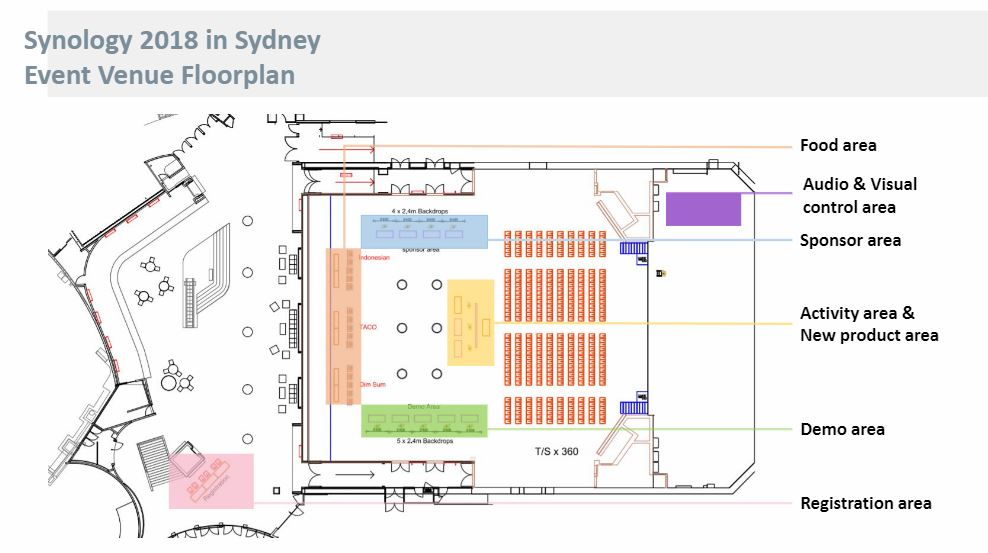
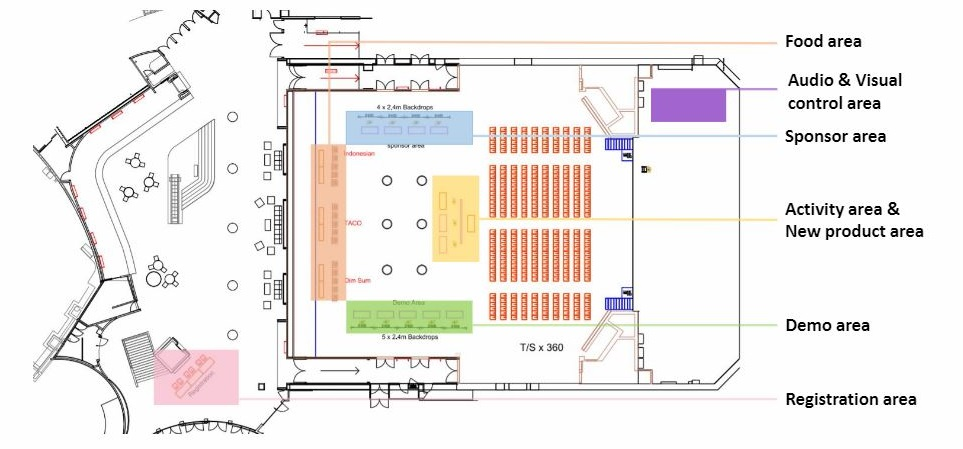
added more content to the event design page

Changed region(s): [[0.0, 0.0312, 0.9657, 0.9978]]

diff --git a/index.html b/index.html
@@ -222,7 +222,9 @@ p{
         margin: 10px auto;
         float:none;
       }
-
+      #event_area{
+        padding-left: 5px;
+      }
 
       /*CSS for photography*/
       #photography{
@@ -837,8 +839,19 @@ p{
         <p>For this event, I would need to plan and design a space that is able to accomodate up to 400 people, as well as retaining them throughout the whole event. Additionally, the design should be able to demonstrate sponsor booths from four different external brans, hands-on experience booth of five various solution themes, new hardware products for the company, three food stations, as well as an activity area.</br></p>
         </p>
         <h5>Solution</h5>
-        <p>In order to keep as many attendees as possible until the last minute of the show, I have opted for a extremely spacious hotel venue capable of accommodating all activity spaces.</p>
+        <p>In order to keep every attendee interested until the last minute of the show, I have opted for an extremely spacious hotel venue capable of accommodating all activity spaces.</p>
         <img src="img/artwork/floorplan.JPG">
+        <img src="img/artwork/overview.jpg">
+        <p>The whole event space was divided into 6 areas:</p>
+        <div id="event_area">
+        <p><span style="border-left: 5px solid rgb(214, 139, 160); padding-left: 3px;"><strong>Registration: </strong></span>The registration was located ourside of the event center, facing the main entrance of the hotel building. With pull-up banners explicitly indicating its function and badges displayed on the table, attendees would proactively come over to register. To provide smooth experience for the attendees, an electronic check-in mobile app was adopted to quickly scan the QR-Code on each ticket.  </p>
+        <p><span style="border-left: 5px solid rgb(180, 125, 191); padding-left: 3px;"><strong>Audio & Visual Control Area: </strong></span>Since the presentaions required a complicated streaming system to switch between different display modes, the A/V area was set up at the side of the stage so the coworker in charge could see both the presenter's laptop and the screens to ensure correct display.</p>
+        <p><span style="border-left: 5px solid rgb(202, 210, 106); padding-left: 3px;"><strong>Activity Area & New Product Area: </strong></span>Serving as room divider, a double-sided media wall was displayed at the back of the auditorium. One side was purported to engage attendees in some fun activities during the break, while the other side served as statis display for new products. </p>
+        <p><span style="border-left: 5px solid rgb(106, 182, 210); padding-left: 3px;"><strong>Sponsor Area: </strong></span>This was an area of four booths for sponsors to display their products. To provide an aligned visual image, the design team has made a template for all sponsor booth backdrops.</p>
+        <p><span style="border-left: 5px solid rgb(133, 210, 106); padding-left: 3px;"><strong>Demo Area: </strong></span>This was an area of five booths to display the company's new solutions. Each booth features a theme, with dedicated coworkers standing by to provide guidance on hands-on demonstration.</p>
+        <p><span style="border-left: 5px solid rgb(210, 181, 106); padding-left: 3px;"><strong>Food Area: </strong></span>The food area consisted of three food stations. It was located at the very back of the space after discussion with the hotel and event agency. This arrangement offered sufficient space for guests to line up for food, while providing equal visibility of both sponsor and demo areas. </p>
+        </div>
+
 
       </div>
 
